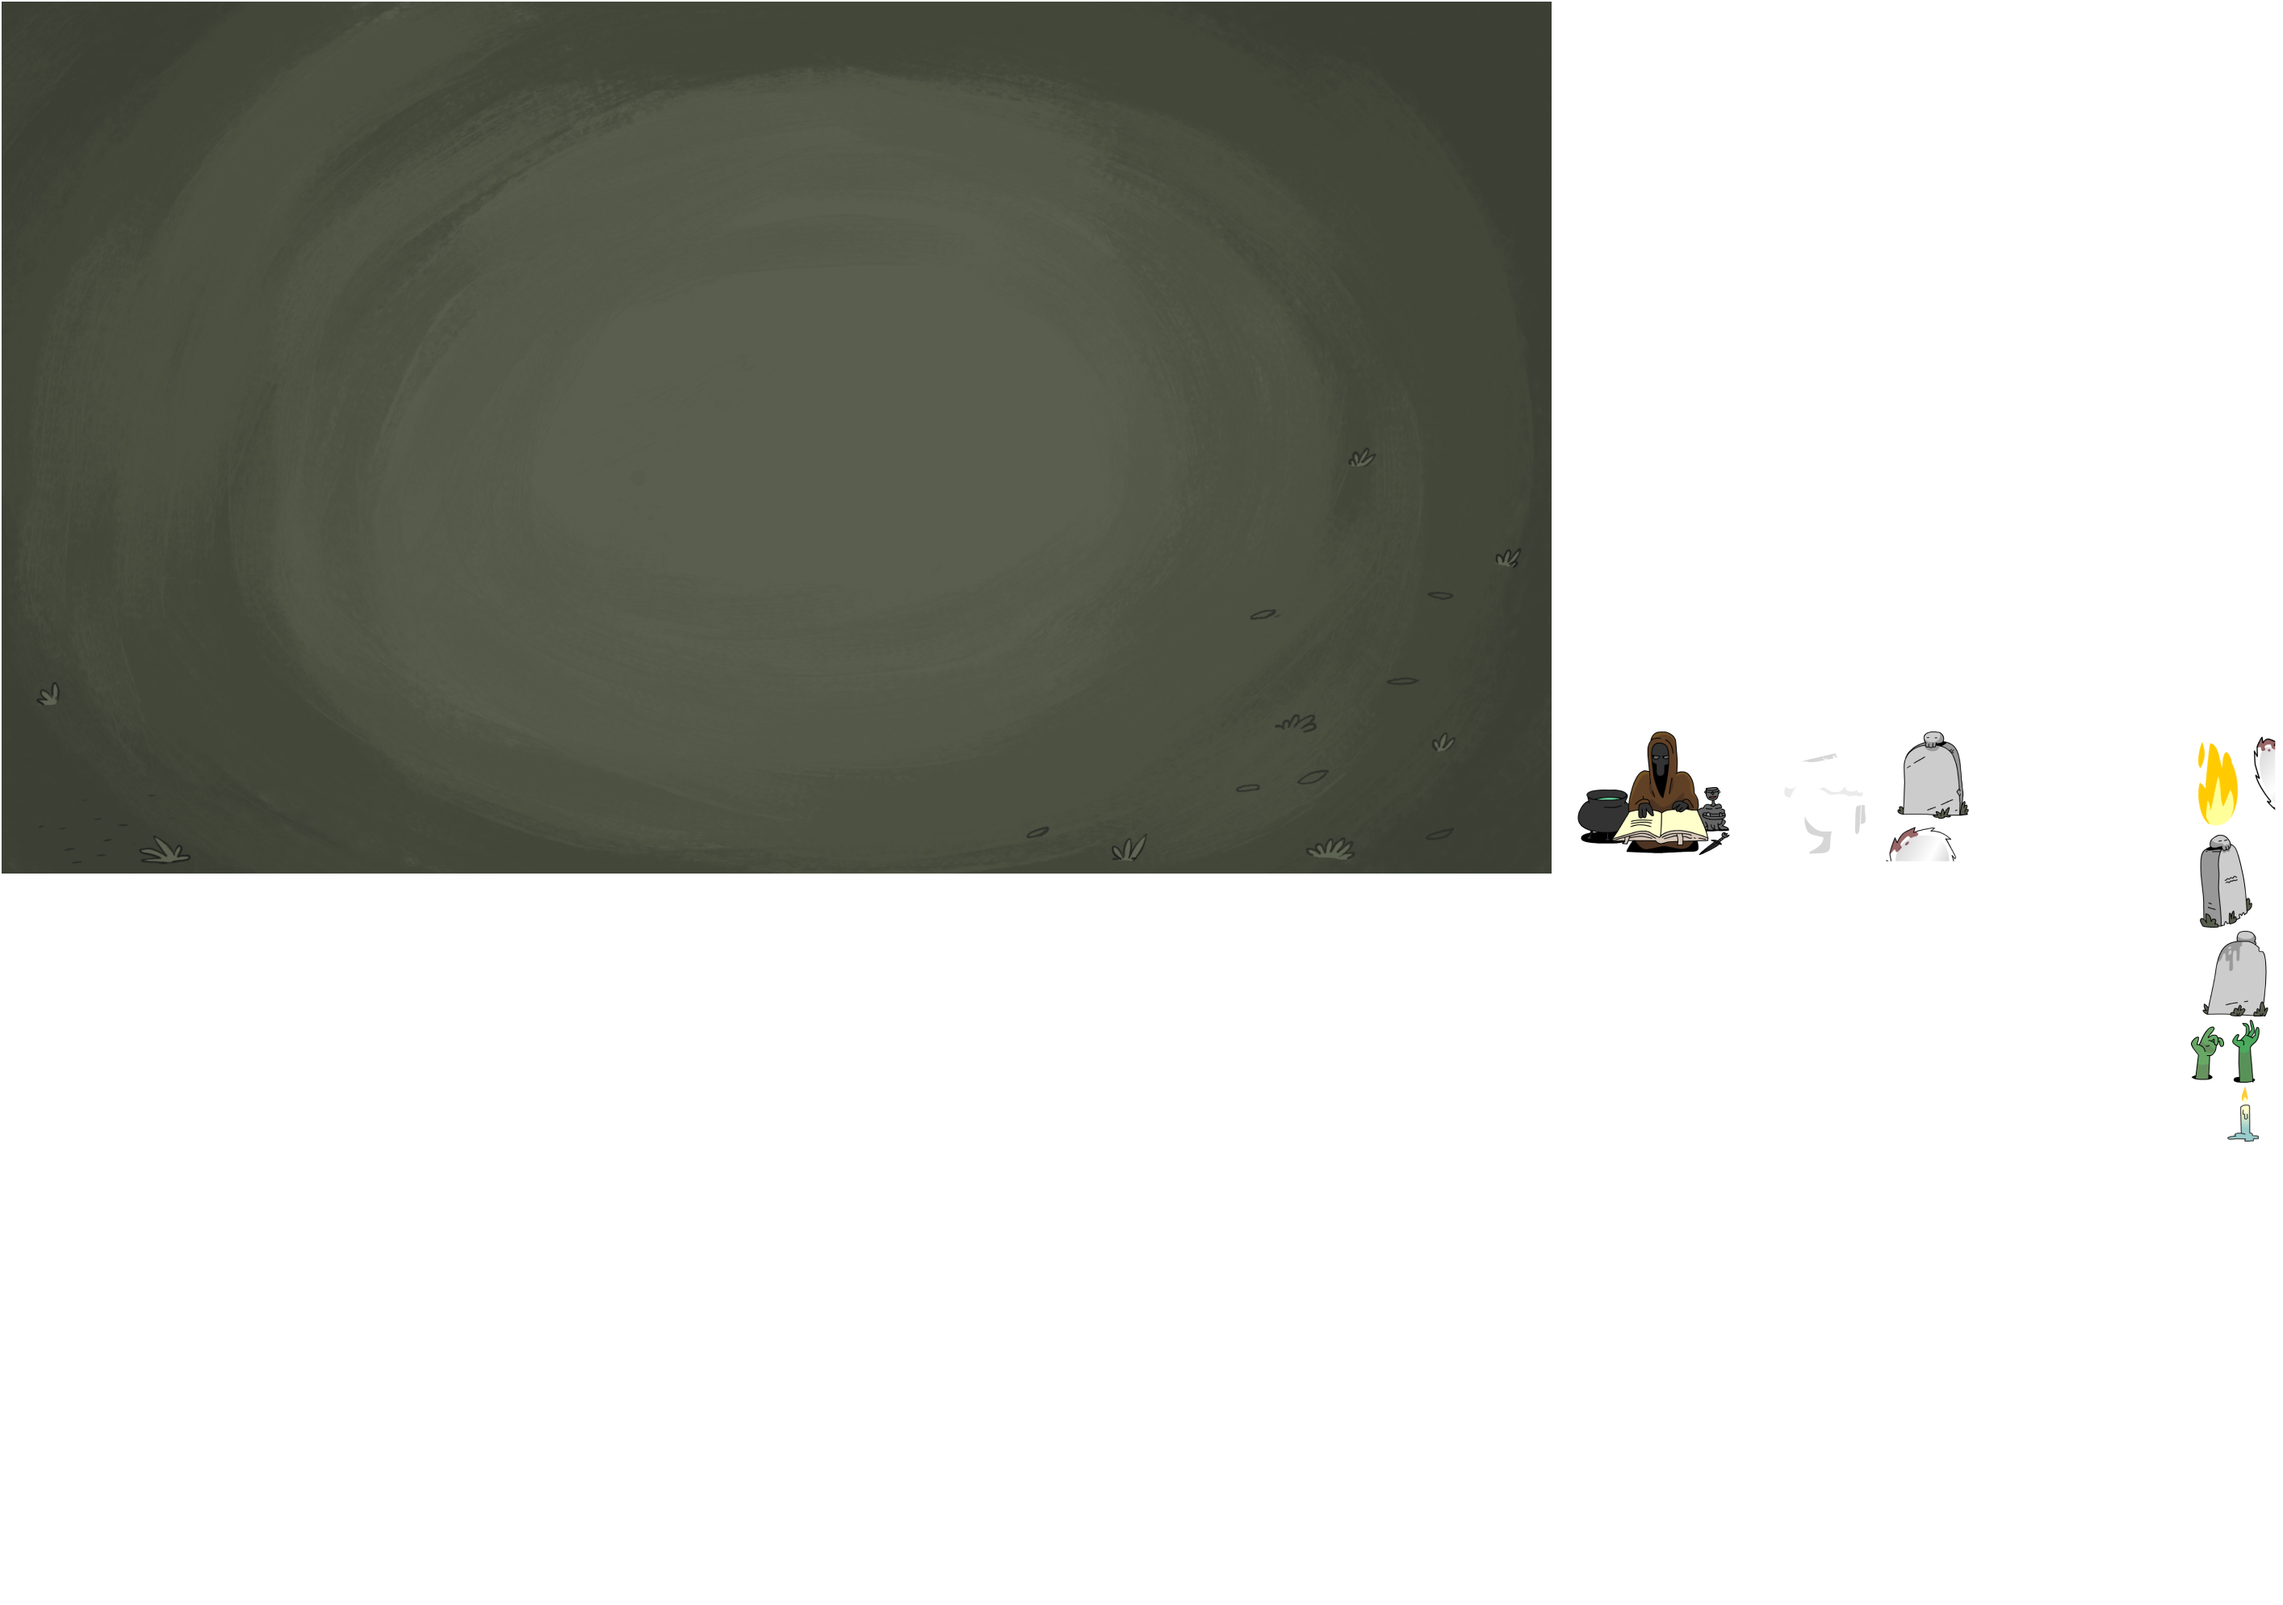
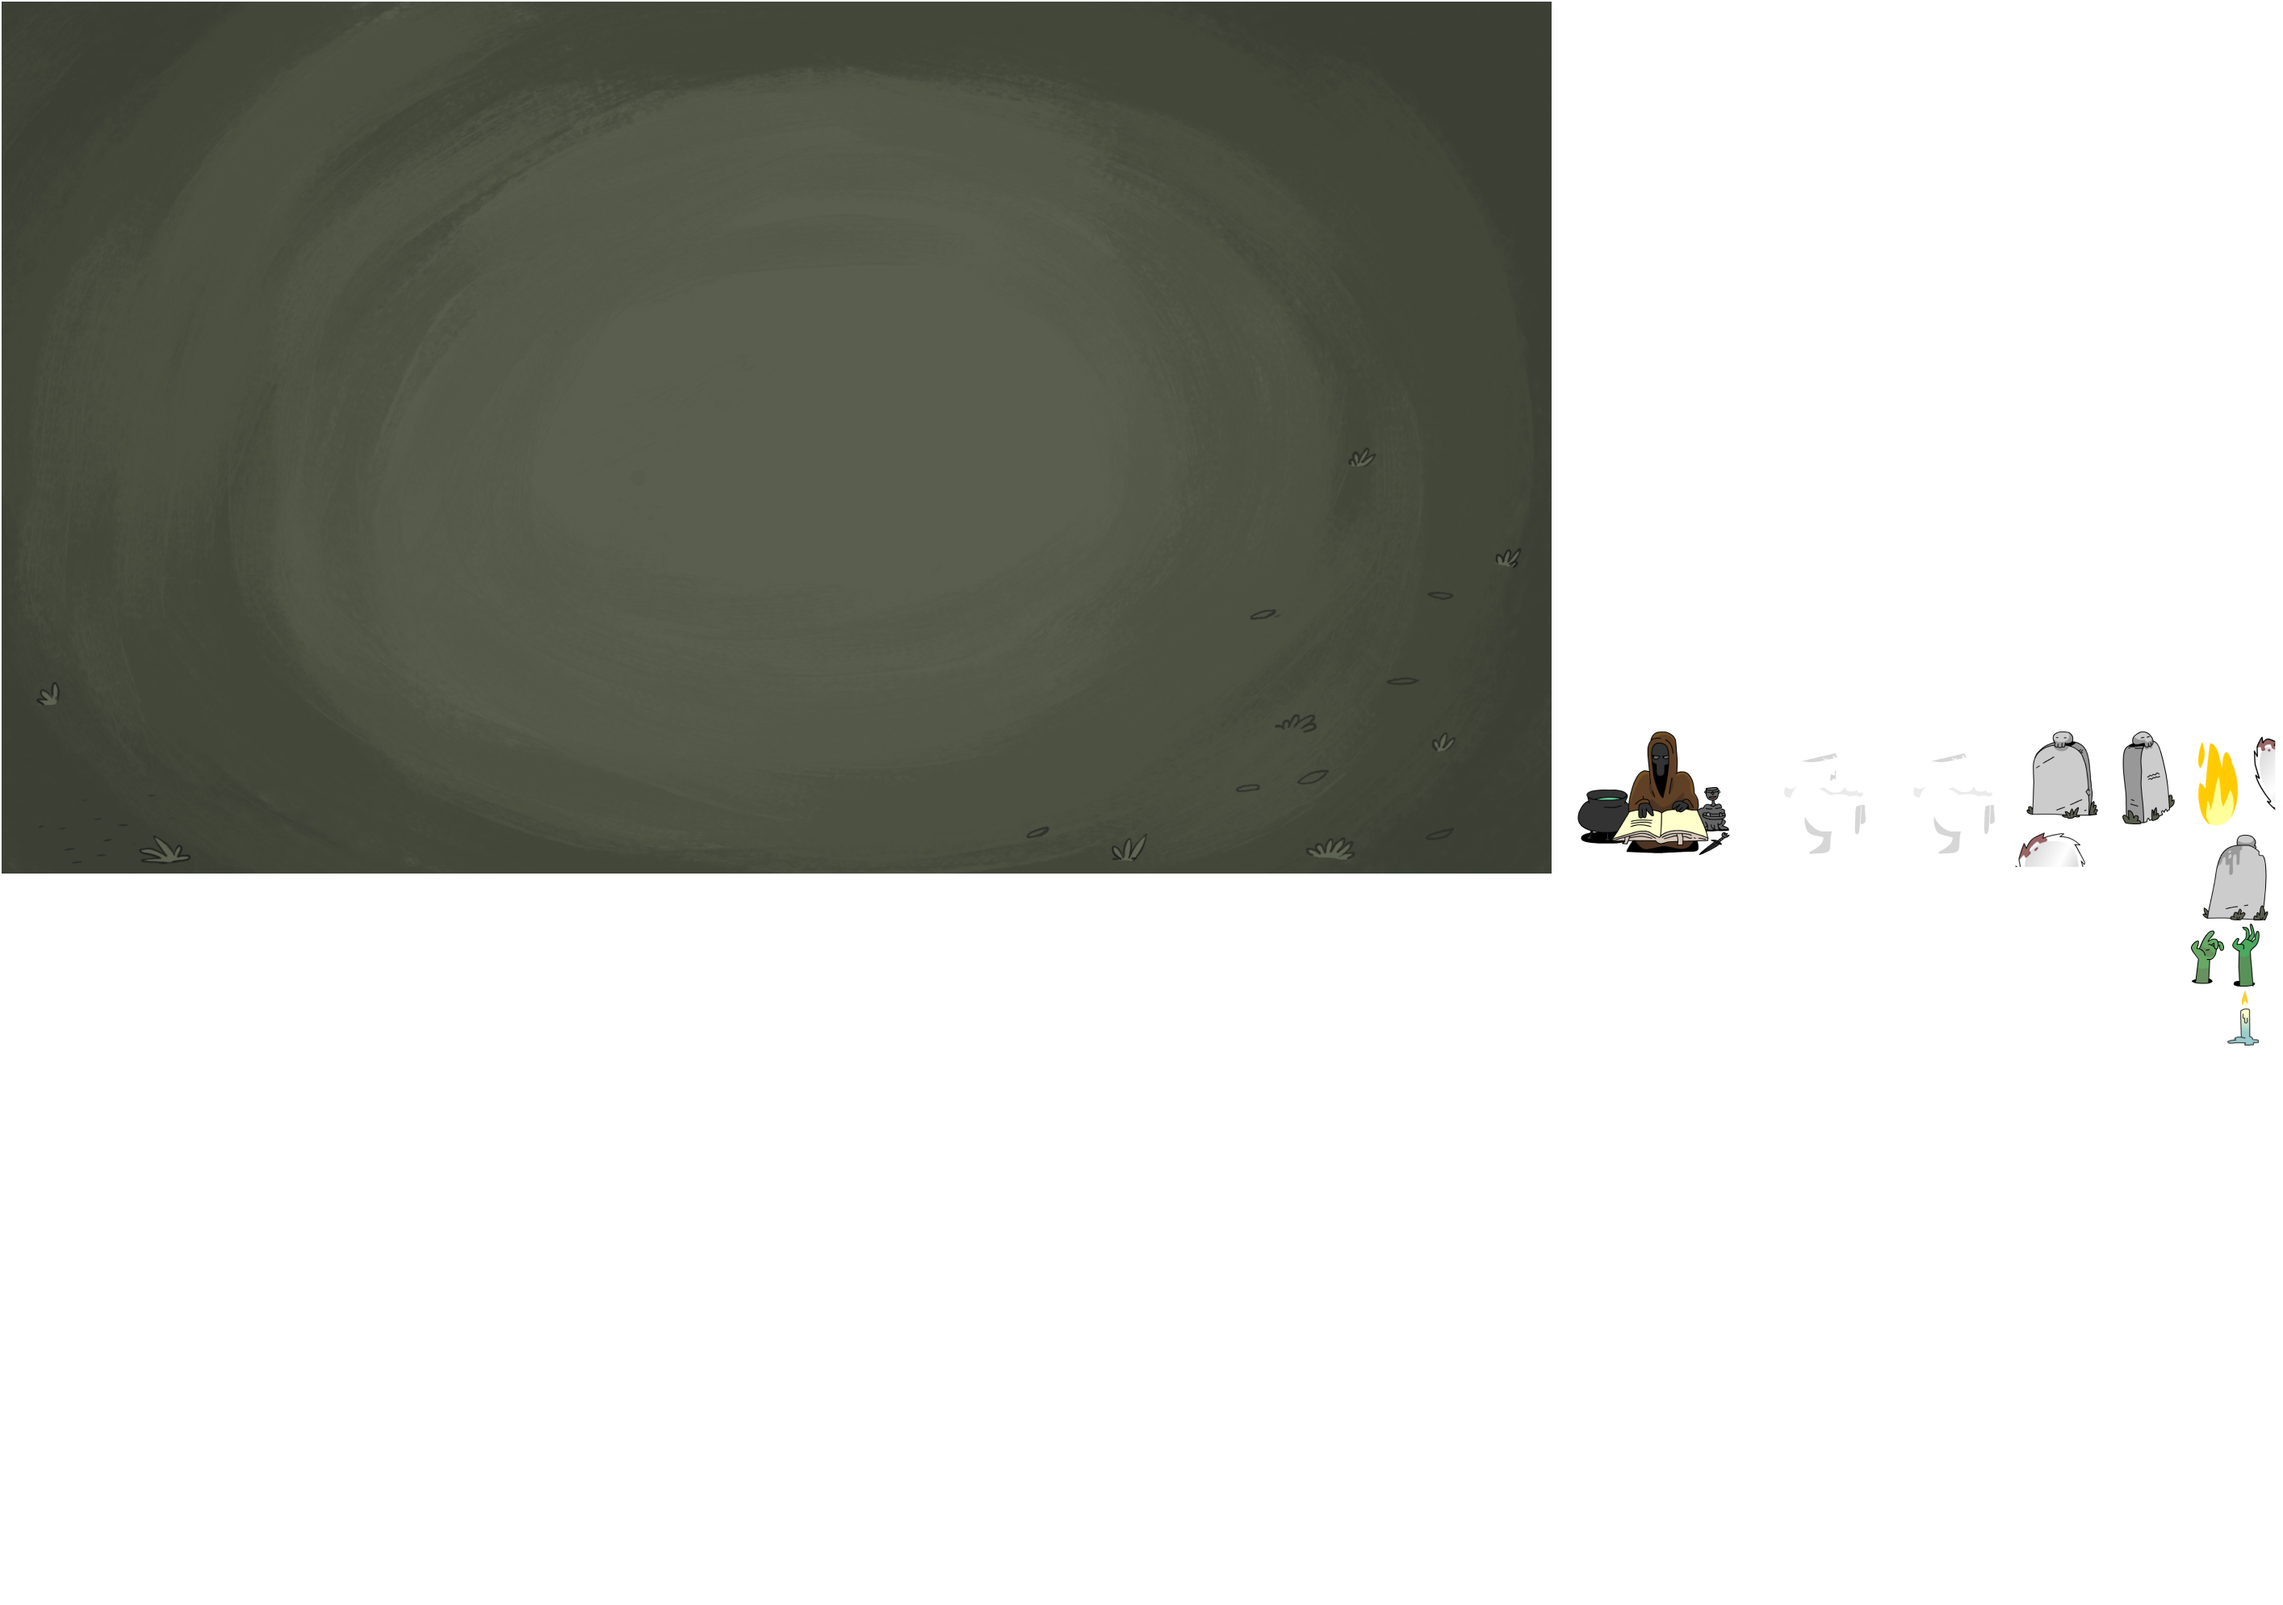
mvp

Changed region(s): [[0.8091, 0.4366, 0.9958, 0.7173]]

diff --git a/src/game/components/character.ts b/src/game/components/character.ts
@@ -5,11 +5,11 @@ import character from '@/game/materials/character.glsl';
 import res from '@/res';
 import { Assets } from '@/game/resources/assets';
 import { enemyGroup } from '@/game/collisions';
-import { easeInOutSine } from '@/game/utils';
+import { easeInOutSine, random } from '@/game/utils';
 import { TAGS } from '@/enums';
 
 export default class Character extends Actor {
-	protected live = 5;
+	protected live!: number;
 	private material!: Material;
 	private abortController!: AbortController;
 
@@ -22,13 +22,21 @@ export default class Character extends Actor {
 
 
 	onInitialize(engine: Engine) {
-		this.pos.setTo(200, 200);
+		this.live = random.integer(3, 6);
+		this.abortController = new AbortController();
 		this.collider.useCircleCollider(40);
 
-		this.abortController = new AbortController();
 		this.addTag(TAGS.Z_AXIS_SORT);
+		this.addTag(TAGS.MOB);
+
 		this.initGraphics();
 		this.registerEvents();
+
+		this.actions.moveTo(Vector.Zero, 50 + random.floating(0, 1) * 50);
+	}
+
+	onPostUpdate(engine: Engine, delta: number) {
+		this.graphics.flipHorizontal = this.vel.x < 0;
 	}
 
 	damage(value: number) {
@@ -55,7 +63,7 @@ export default class Character extends Actor {
 			fragmentSource: character,
 		});
 
-		const sprite = <Sprite>res.assets.getFrameSprite(Assets.ENEMIES__2);
+		const sprite = <Sprite>res.assets.getFrameSprite(random.pickOne([Assets.ENEMIES__1, Assets.ENEMIES__2]));
 		this.graphics.use(sprite, {
 			anchor: sprite.origin || Vector.Zero,
 		});

diff --git a/src/game/spawn-system.ts b/src/game/spawn-system.ts
@@ -1,0 +1,27 @@
+import type Stage from '@/game/scenes/Stage';
+import Character from '@/game/components/character';
+import { vec } from 'excalibur';
+import { random } from '@/game/utils';
+import { TAGS } from '@/enums';
+
+export default class SpawnSystem {
+	constructor(private stage: Stage) {
+		setTimeout(() => this.spawn(), 5000);
+	}
+
+	spawn() {
+		const mobLength = this.stage.world.queryTags([TAGS.MOB]).entities.length;
+		const maxMobInWave = 16;
+		const screenOffset = 500;
+		const rangeOffset = (Math.PI * 2) / 16;
+		const angles = new Array(16).fill(0).map((value, index) => rangeOffset * index);
+
+		for (let angle of random.pickSet(angles, maxMobInWave - mobLength, false)) {
+			const character = new Character({
+				pos: vec((screenOffset + 1920 / 2) * Math.sin(angle), (screenOffset * .5 + 1080 / 2) * Math.cos(angle)),
+			});
+
+			this.stage.add(character);
+		}
+	}
+}

diff --git a/src/game/scenes/Stage.ts b/src/game/scenes/Stage.ts
@@ -9,11 +9,15 @@ import StageBg from '@/game/components/stage-bg';
 import Caster from '@/game/components/caster';
 import ZAxisSortSystem from '@/game/partials/z-axis-sort-system';
 import Fireballs from '@/game/components/constructions/fireballs';
+import SpawnSystem from '@/game/spawn-system';
 
 export default class Stage extends Scene {
+	private spawnSystem!: SpawnSystem;
+
 	onInitialize() {
 		this.camera.pos.setTo(0, -25);
 
+		this.spawnSystem = new SpawnSystem(this);
 		this.world.add(new ZAxisSortSystem());
 	}
 

diff --git a/src/game/components/caster.ts b/src/game/components/caster.ts
@@ -1,13 +1,13 @@
 import { Actor, Sprite, Vector } from 'excalibur';
 import res from '@/res';
 import { Assets } from '@/game/resources/assets';
-import { Z_INDEX } from '@/enums';
+import { TAGS } from '@/enums';
 
 export default class Caster extends Actor {
 	private sprite = <Sprite>res.assets.getFrameSprite(Assets.CASTER);
 
 	onInitialize() {
-		this.z = Z_INDEX.CASTER;
+		this.addTag(TAGS.Z_AXIS_SORT);
 
 		this.initGraphics();
 	}

diff --git a/src/game/resources/assets.ts b/src/game/resources/assets.ts
@@ -12,6 +12,7 @@ export enum Assets {
 	'FORMS__ELLIPSE' = 'forms/ellipse',
 	'FIREBALLS__1' = 'fireballs/1',
 	'ENEMIES__2' = 'enemies/2',
+	'ENEMIES__1' = 'enemies/1',
 	'CASTER' = 'caster',
 	'CANDLES__3' = 'candles/3',
 	'CANDLES__2' = 'candles/2',

diff --git a/src/enums.ts b/src/enums.ts
@@ -27,5 +27,6 @@ export enum Z_INDEX {
 }
 
 export enum TAGS {
+	MOB = 'mob',
 	Z_AXIS_SORT = 'zAxisSort'
 }
